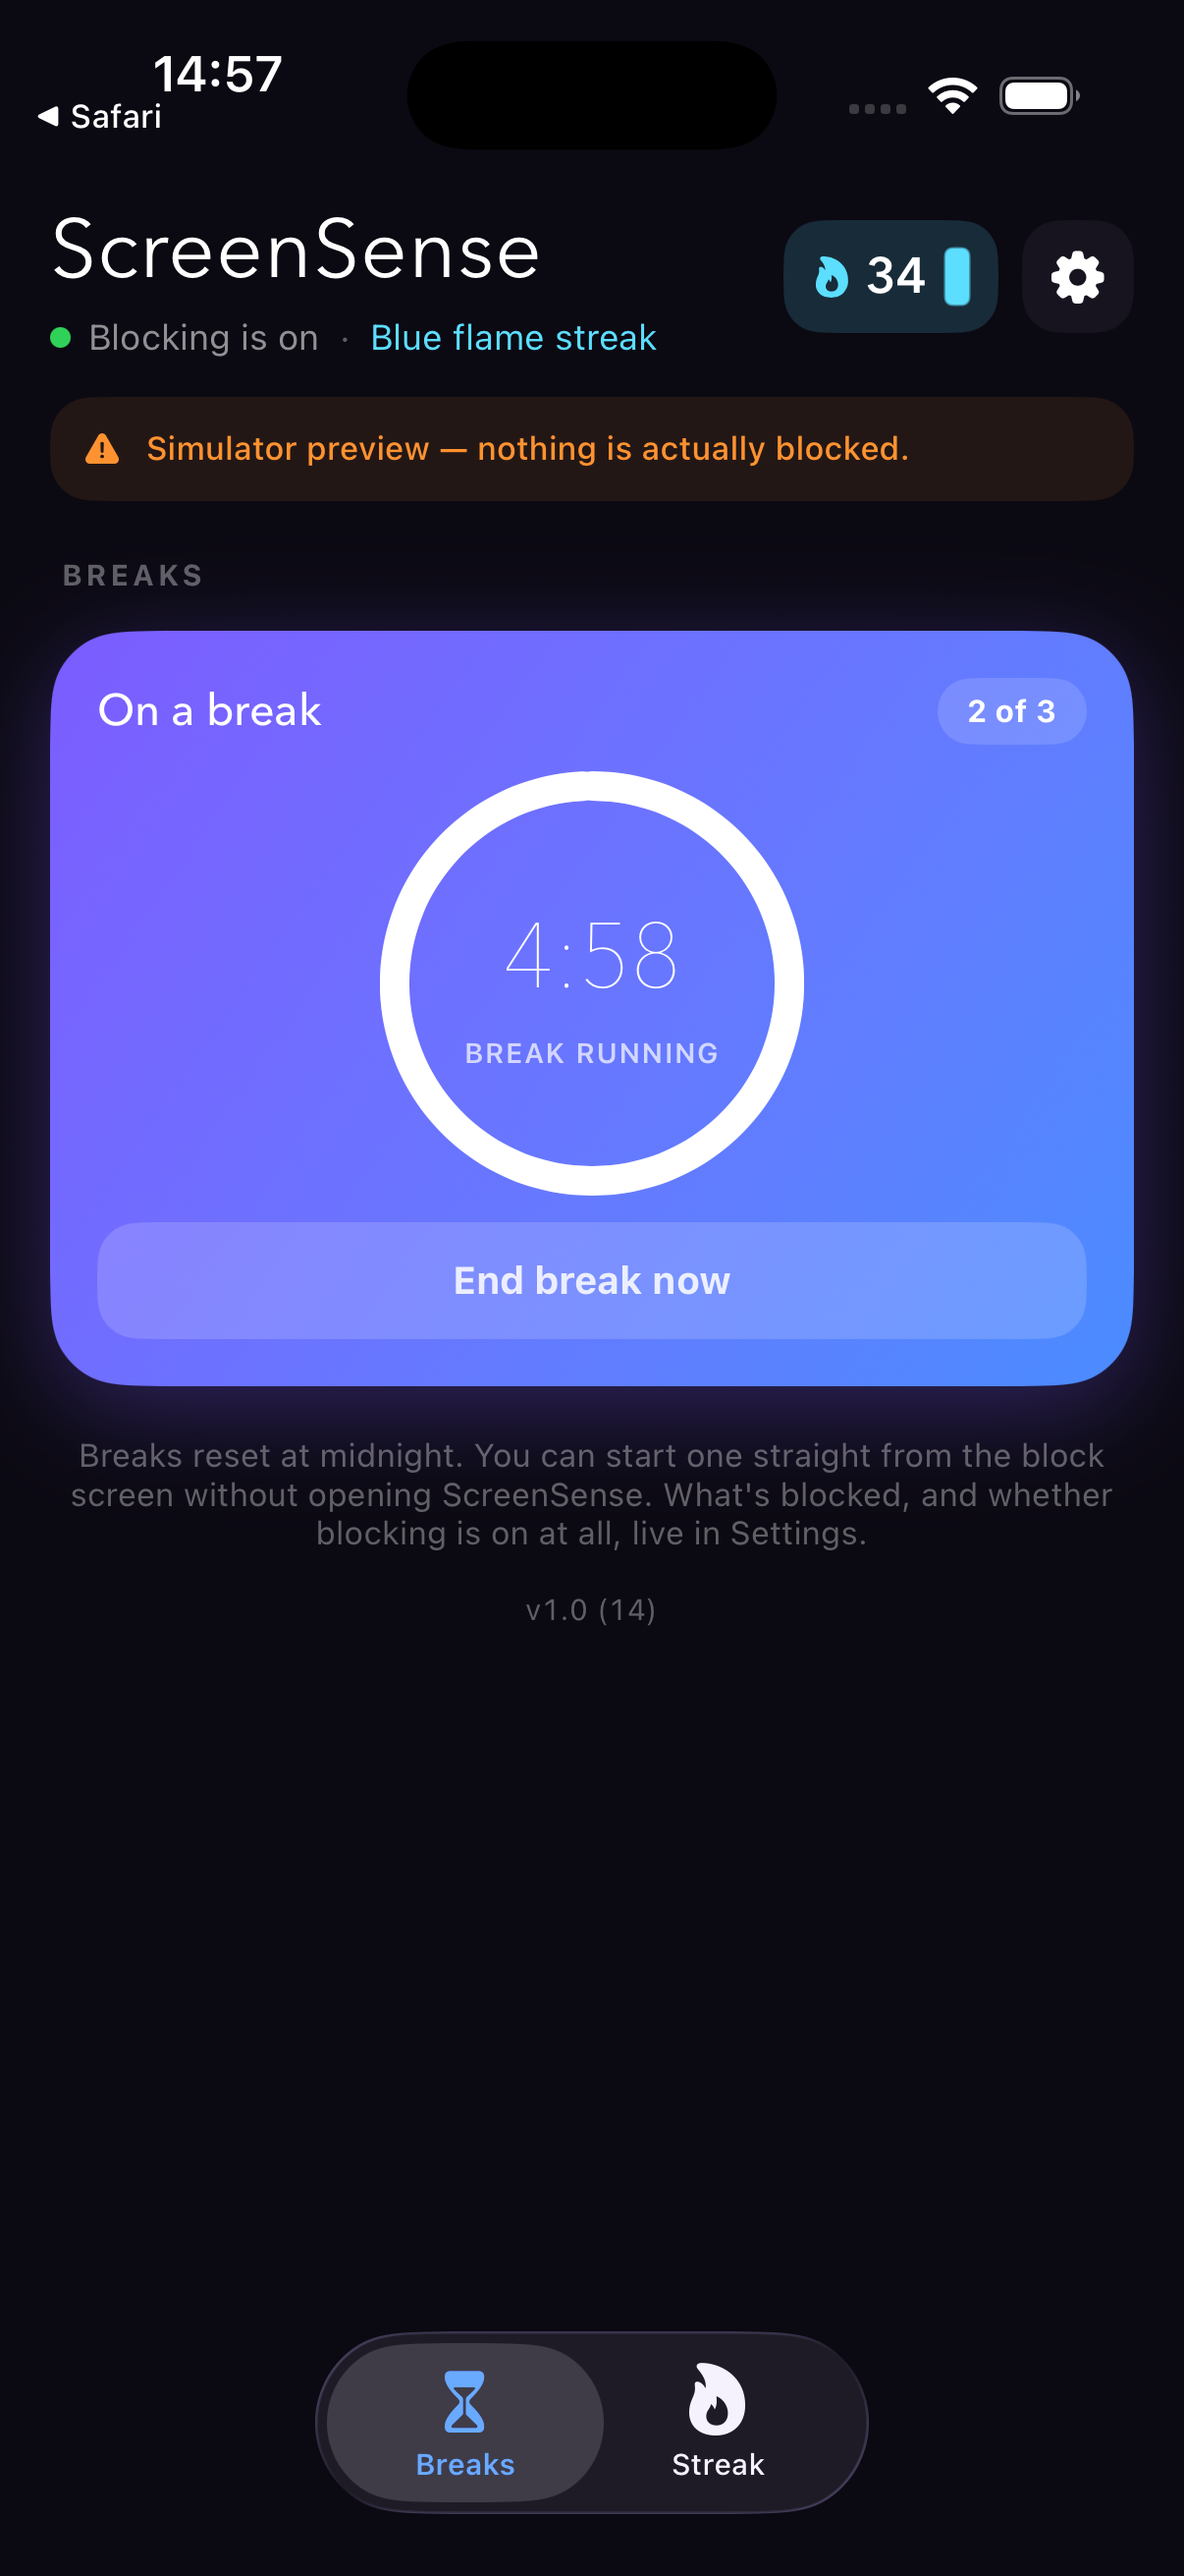
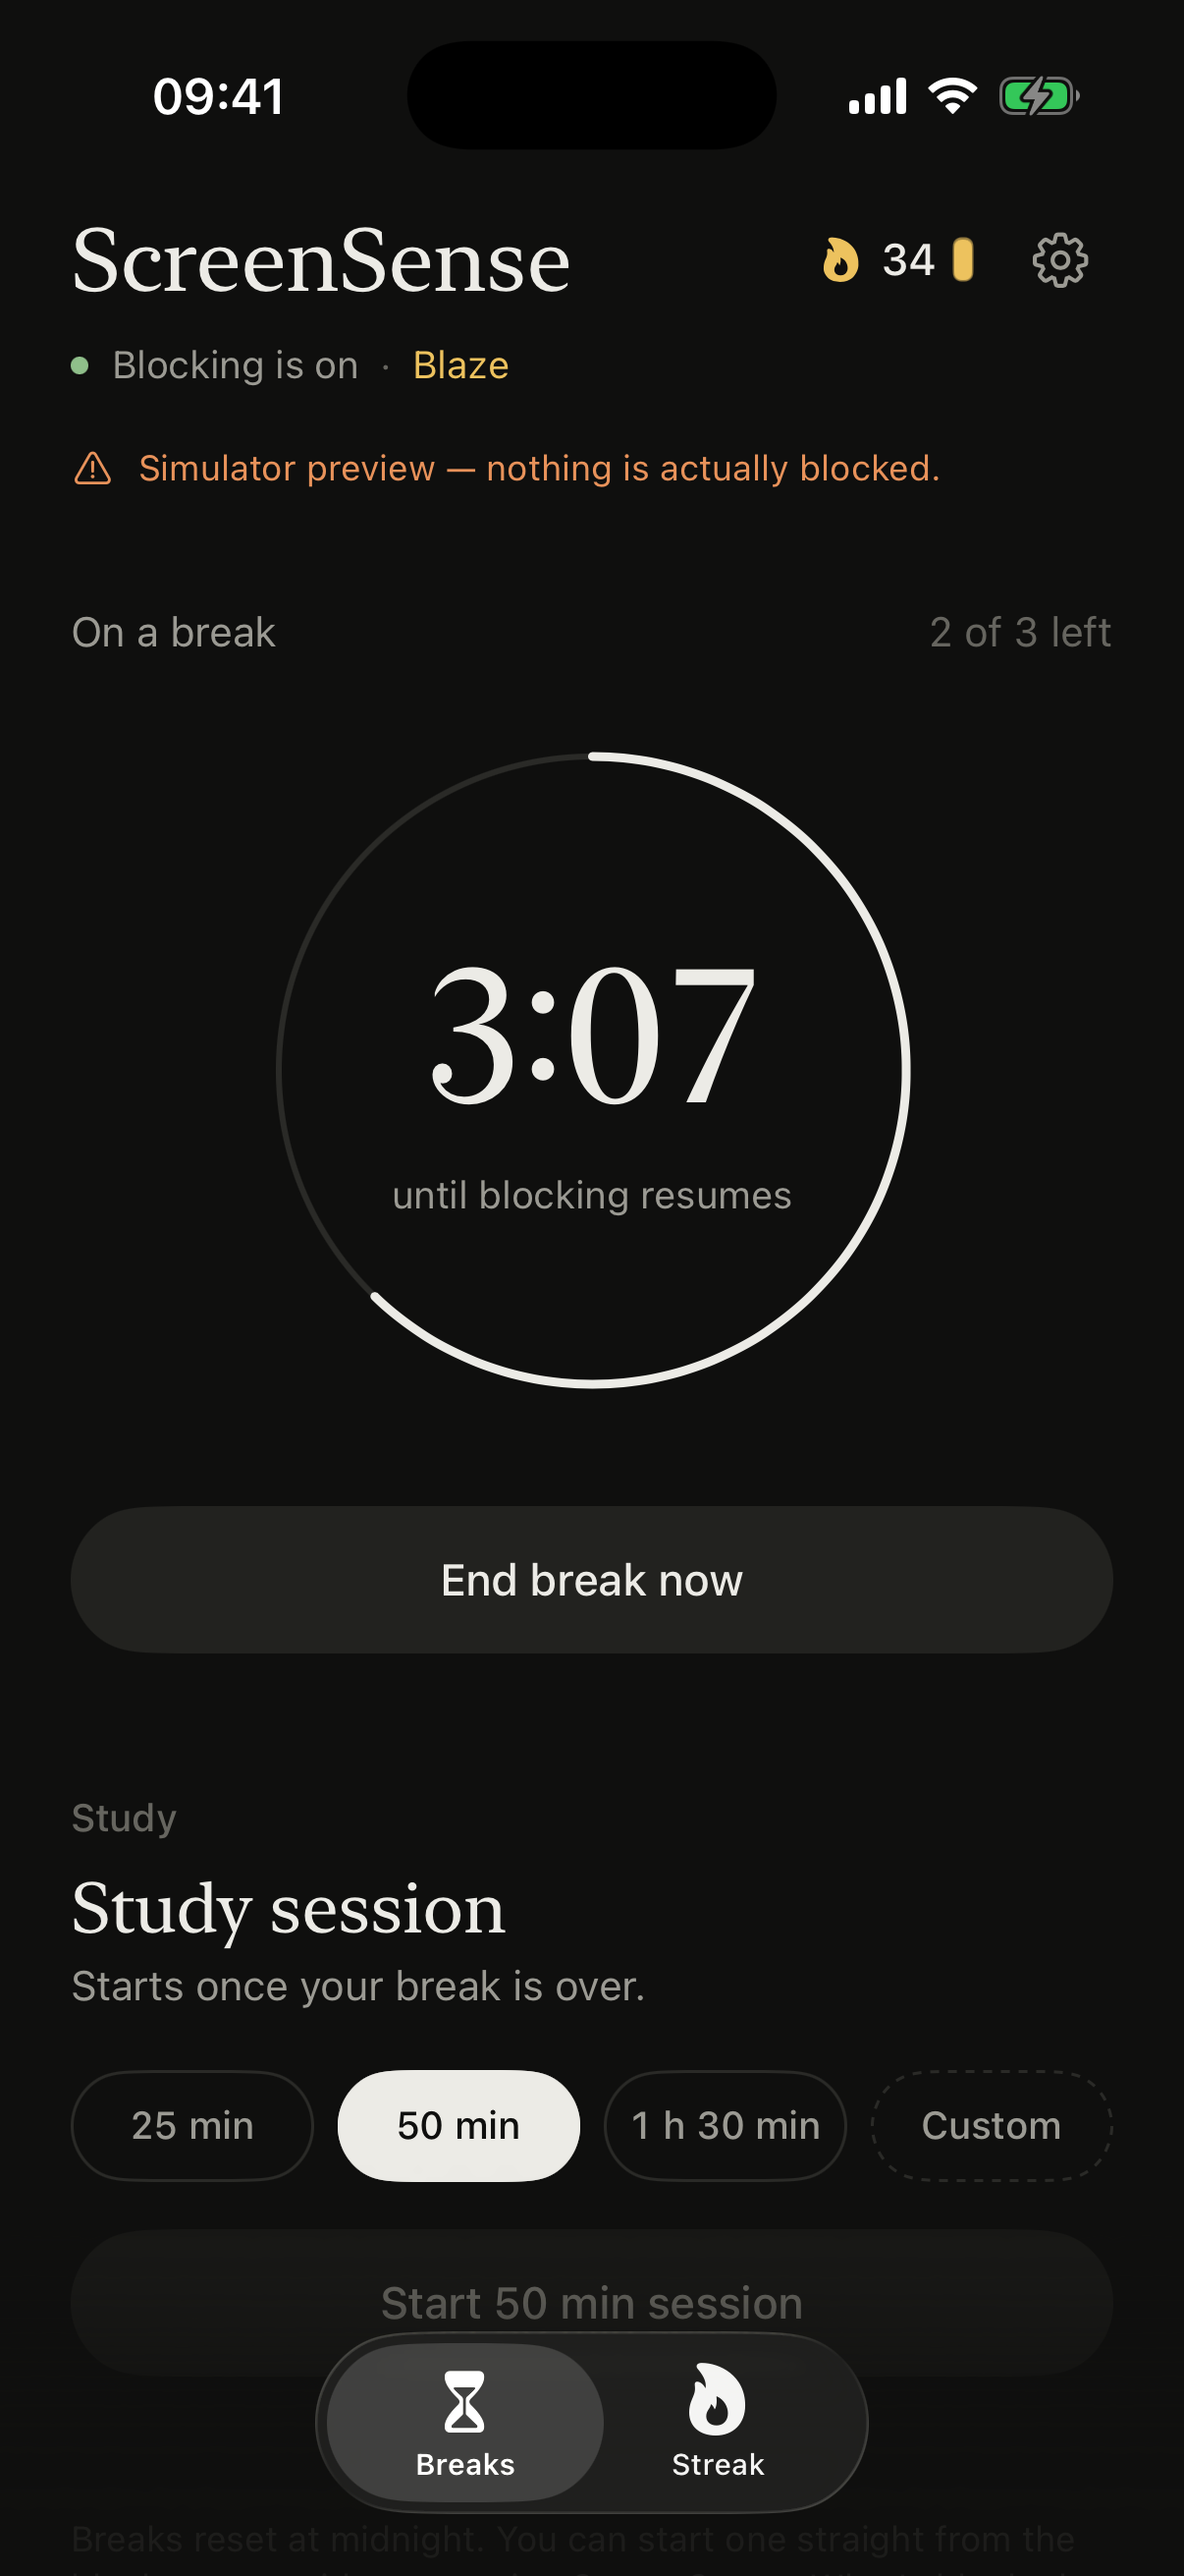
Retake the README screenshots in the new design
Breaks, a break running, Settings and Streak, captured in the
simulator with a 34-day streak. The alt text follows what each one
now shows.

diff --git a/README.md b/README.md
@@ -10,10 +10,10 @@ itself rather than by a VPN profile or a DNS trick.
 ## Screenshots
 
 <p align="center">
-  <img src="docs/screenshots/breaks.png" width="200" alt="Breaks today: three breaks left, with the day's budget below">
-  <img src="docs/screenshots/break-running.png" width="200" alt="A break running, counting down to the second">
-  <img src="docs/screenshots/settings.png" width="200" alt="Settings: blocked apps, daily allowance band, breaks per day and break length">
-  <img src="docs/screenshots/streak.png" width="200" alt="Streak: 34 days at Blue flame, with the last 7 days charted by level">
+  <img src="docs/screenshots/breaks.png" width="200" alt="Breaks today: two of three breaks left, with the day's budget below">
+  <img src="docs/screenshots/break-running.png" width="200" alt="A break running, counting down until blocking resumes">
+  <img src="docs/screenshots/settings.png" width="200" alt="Settings: blocked apps, the blocking switch, daily allowance, breaks per day and break length">
+  <img src="docs/screenshots/streak.png" width="200" alt="Streak: 34 days at Blaze, with the last 7 days charted by level">
 </p>
 <p align="center"><em>Breaks · a break running · settings · streak. Captured in the simulator, where the app shows a preview banner because nothing is actually blocked there.</em></p>
 
